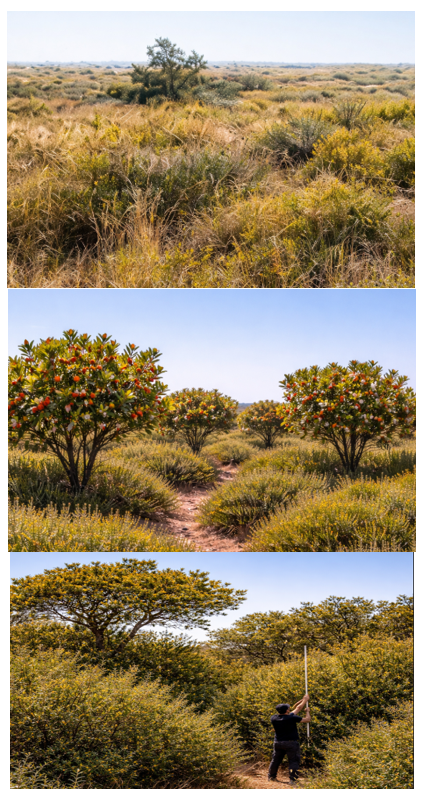
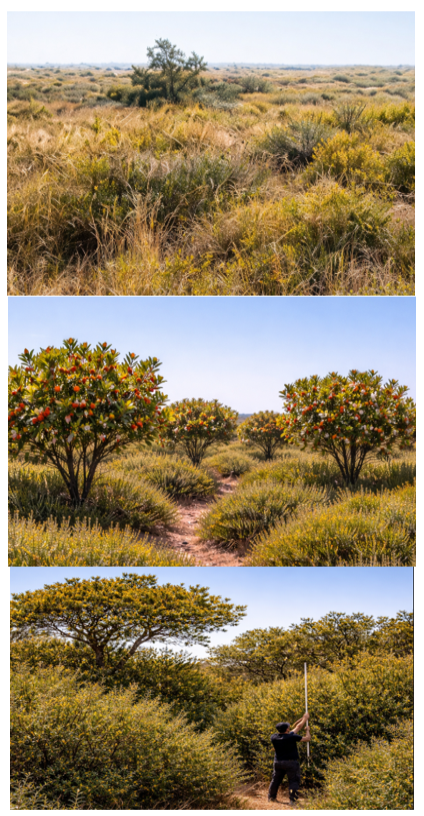
Tentative fix for the gray boxes shown by dependentimagegrid widgets. Updated images so they all have the same format. Updated scripts and nginx configuration to avoid CSS errors in the Django Admin interface. Tentative fix for the GSS login screen not allowing automatic form fill by password manage

diff --git a/server_frontend_flutter/lib/main.dart b/server_frontend_flutter/lib/main.dart
@@ -1,6 +1,7 @@
 import 'package:flutter/cupertino.dart';
 import 'package:flutter/material.dart';
 import 'package:flutter/rendering.dart';
+import 'package:flutter/services.dart';
 import 'package:flutter_map/flutter_map.dart';
 import 'package:flutter_server/com/hydrologis/gss/libs/models.dart';
 import 'package:flutter_server/com/hydrologis/gss/libs/network.dart';
@@ -151,6 +152,9 @@ class MainPage extends StatefulWidget {
 class _MainPageState extends State<MainPage> {
   String _errortext = "";
   WebProject? selectedProject;
+  final GlobalKey<FormState> _loginFormKey = GlobalKey<FormState>();
+  final TextEditingController _userNameController = TextEditingController();
+  final TextEditingController _passwordController = TextEditingController();
 
   Future<void> _doLogin(String user, String password) async {
     if (selectedProject == null) {
@@ -164,6 +168,21 @@ class _MainPageState extends State<MainPage> {
       }
     }
     setState(() {});
+  }
+
+  Future<void> _submitLogin() async {
+    if (!(_loginFormKey.currentState?.validate() ?? false)) {
+      return;
+    }
+    await _doLogin(_userNameController.text.trim(), _passwordController.text);
+    TextInput.finishAutofillContext(shouldSave: _errortext.isEmpty);
+  }
+
+  @override
+  void dispose() {
+    _userNameController.dispose();
+    _passwordController.dispose();
+    super.dispose();
   }
 
   @override
@@ -258,27 +277,30 @@ class _MainPageState extends State<MainPage> {
 
     TextStyle loginTextStyle = TextStyle(fontFamily: 'Arial', fontSize: 20.0);
 
-    TextEditingController userNameController = new TextEditingController();
-    final userNameField = TextField(
-      controller: userNameController,
+    final userNameField = TextFormField(
+      key: const ValueKey("gss-login-username"),
+      controller: _userNameController,
       obscureText: false,
-      autofillHints: const [AutofillHints.username],
+      autofillHints: const [AutofillHints.username, AutofillHints.email],
       textInputAction: TextInputAction.next,
       keyboardType: TextInputType.text,
       autocorrect: false,
       enableSuggestions: false,
       onSubmitted: (_) => FocusScope.of(context).nextFocus(),
+      validator: (value) =>
+          (value == null || value.trim().isEmpty) ? "Username is required." : null,
       style: loginTextStyle,
       decoration: InputDecoration(
+          labelText: "Username",
           contentPadding: EdgeInsets.fromLTRB(20.0, 15.0, 20.0, 15.0),
           hintText: "Username",
           border:
               OutlineInputBorder(borderRadius: BorderRadius.circular(32.0))),
     );
 
-    TextEditingController passwordController = new TextEditingController();
-    final passwordField = TextField(
-      controller: passwordController,
+    final passwordField = TextFormField(
+      key: const ValueKey("gss-login-password"),
+      controller: _passwordController,
       obscureText: true,
       autofillHints: const [AutofillHints.password],
       textInputAction: TextInputAction.done,
@@ -287,9 +309,12 @@ class _MainPageState extends State<MainPage> {
       enableSuggestions: false,
       style: loginTextStyle,
       onSubmitted: (_) async {
-        await _doLogin(userNameController.text, passwordController.text);
+        await _submitLogin();
       },
+      validator: (value) =>
+          (value == null || value.isEmpty) ? "Password is required." : null,
       decoration: InputDecoration(
+          labelText: "Password",
           contentPadding: EdgeInsets.fromLTRB(20.0, 15.0, 20.0, 15.0),
           hintText: "Password",
           border:
@@ -304,7 +329,7 @@ class _MainPageState extends State<MainPage> {
         minWidth: MediaQuery.of(context).size.width,
         padding: EdgeInsets.fromLTRB(20.0, 15.0, 20.0, 15.0),
         onPressed: () async {
-          await _doLogin(userNameController.text, passwordController.text);
+          await _submitLogin();
         },
         child: Text("Login",
             textAlign: TextAlign.center,
@@ -322,39 +347,42 @@ class _MainPageState extends State<MainPage> {
           child: Padding(
             padding: const EdgeInsets.all(36.0),
             child: AutofillGroup(
-              child: Column(
-                crossAxisAlignment: CrossAxisAlignment.center,
-                mainAxisAlignment: MainAxisAlignment.center,
-                children: <Widget>[
-                  SizedBox(
-                    height: 200.0,
-                    child: Image.asset(
-                      "assets/smash_logo.png",
-                      fit: BoxFit.contain,
+              child: Form(
+                key: _loginFormKey,
+                child: Column(
+                  crossAxisAlignment: CrossAxisAlignment.center,
+                  mainAxisAlignment: MainAxisAlignment.center,
+                  children: <Widget>[
+                    SizedBox(
+                      height: 200.0,
+                      child: Image.asset(
+                        "assets/smash_logo.png",
+                        fit: BoxFit.contain,
+                      ),
                     ),
-                  ),
-                  SizedBox(height: 45.0),
-                  Container(
-                    decoration: BoxDecoration(
-                        borderRadius: BorderRadius.all(Radius.circular(5)),
-                        border: Border.all(
-                            color: SmashColors.mainDecorations, width: 1)),
-                    child: Padding(
-                      padding: const EdgeInsets.only(
-                          left: 8.0, right: 8.0, top: 3, bottom: 3),
-                      child: projectsCombo,
+                    SizedBox(height: 45.0),
+                    Container(
+                      decoration: BoxDecoration(
+                          borderRadius: BorderRadius.all(Radius.circular(5)),
+                          border: Border.all(
+                              color: SmashColors.mainDecorations, width: 1)),
+                      child: Padding(
+                        padding: const EdgeInsets.only(
+                            left: 8.0, right: 8.0, top: 3, bottom: 3),
+                        child: projectsCombo,
+                      ),
                     ),
-                  ),
-                  SizedBox(height: 25.0),
-                  userNameField,
-                  SizedBox(height: 25.0),
-                  passwordField,
-                  SizedBox(height: 35.0),
-                  loginButton,
-                  SizedBox(height: 15.0),
-                  SmashUI.normalText(_errortext,
-                      color: SmashColors.mainSelectionBorder)
-                ],
+                    SizedBox(height: 25.0),
+                    userNameField,
+                    SizedBox(height: 25.0),
+                    passwordField,
+                    SizedBox(height: 35.0),
+                    loginButton,
+                    SizedBox(height: 15.0),
+                    SmashUI.normalText(_errortext,
+                        color: SmashColors.mainSelectionBorder)
+                  ],
+                ),
               ),
             ),
           ),

diff --git a/docs/deploy_notes.md b/docs/deploy_notes.md
@@ -1,3 +1,5 @@
+# Docker image
+
 1. commit the changes to git
 2. create and assign a tag in the format `n.nn+BB`
 3. push everything (the tag, too)
@@ -13,3 +15,11 @@ then, exec:
 then, on the remote:
 
 9. `docker load -i ./Geopaparazzi_GSS_n.nn_BB.tar`
+
+
+# Android App (APK)
+
+1. `export ANDROID_HOME="$HOME/.buildozer/android/platform/android-sdk"`
+2. `export ANDROID_SDK_ROOT="$ANDROID_HOME"`
+3. `flutter doctor -v`
+4. `flutter build apk --no-tree-shake-icons --release`
